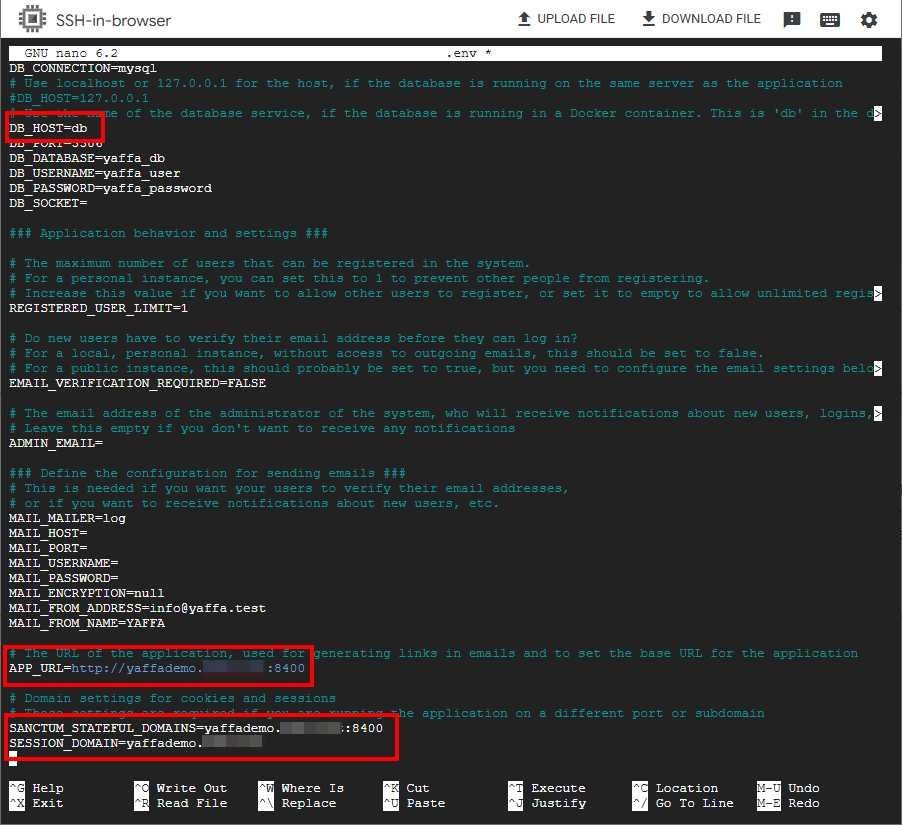
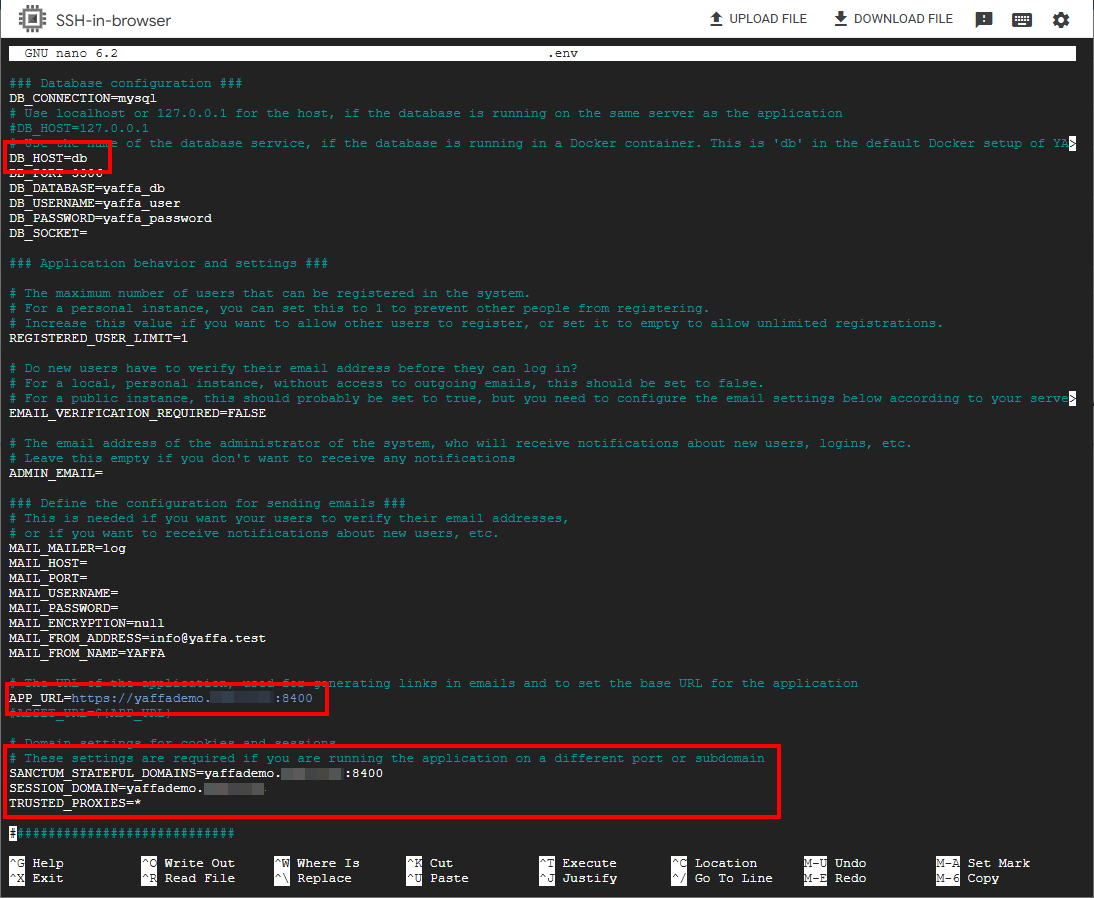
fix: Docker-related instructions

diff --git a/docs/getting-started/installation/install-yaffa-using-docker-on-a-vps.md b/docs/getting-started/installation/install-yaffa-using-docker-on-a-vps.md
@@ -7,7 +7,7 @@ description: Learn how to install and configure YAFFA on a VPS using Docker, and
 
 # Install and Configure YAFFA using Docker on a VPS
 
-This article will help you install a working instance of YAFFA on your VPS. It will guide you through the installation of YAFFA web application itself. In this tutorial we'll also apply some advanced configurations to use a custom subdomain and port for the application.
+This article will help you install a working instance of YAFFA on your VPS. It will guide you through the installation of YAFFA web application itself. In this tutorial we'll also apply some advanced configurations to use a custom subdomain and port for the application, and to set up HTTPS to access YAFFA.
 
 This guide uses the following providers for the VPS and other services. (No affiliation with any of the services mentioned.)
 * Google Cloud Platform (GCP) for the VPS, with billing enabled. This is necessary even if you select the free tier of the VM. You can use any other VPS provider, but the steps may vary.
@@ -102,6 +102,12 @@ curl -o docker-compose.yml https://raw.githubusercontent.com/kantorge/yaffa/refs
 curl -o .env https://raw.githubusercontent.com/kantorge/yaffa/refs/heads/main/.env.example
 ```
 
+To set up HTTPS access, you also need a `Caddyfile` to configure Caddy as a reverse proxy. You can download it using the following command.
+
+```bash
+curl -o Caddyfile https://raw.githubusercontent.com/kantorge/yaffa/refs/heads/main/docker/Caddyfile
+```
+
 ### 3.3. Configure YAFFA
 
 As any Laravel application, YAFFA needs to be configured to work with your environment. This includes setting up the database connection, application key, and other settings.
@@ -120,8 +126,11 @@ In this tutorial, we also configure the application to use a custom subdomain an
 
 ```env
 APP_URL=http://yaffa.example.com:8400
+
 SANCTUM_STATEFUL_DOMAINS=yaffa.example.com:8400
 SESSION_DOMAIN=yaffa.example.com
+
+TRUSTED_PROXIES=*
 ```
 
 Once you are done with all changes, save the file and exit the editor.
@@ -143,13 +152,35 @@ import DockerComposePortUpdated from '/img/docker-vps-installation/10-docker-com
 nano docker-compose.yml
 ```
 
-Find the `ports` section of the `app` service and update it to expose the port you have configured in the `.env` file.
+Find the `ports` section of the `app` service and update it to use port 80, without exposing it externally. Caddy will handle the HTTPS traffic and forward it to the application.
 
 ```yaml
 services:
   app:
     ports:
-      - "8400:80"
+      - "80"
+```
+
+Similarly, update the `ports` section of the `caddy` service to expose the custom port 8400 to the host.
+
+```yaml
+  caddy:
+    ports:
+      - "8400:8400"
+```
+
+Finally, you need to adjust the `Caddyfile` to use your domain and subdomain. Open the file in your text editor.
+
+```bash
+nano Caddyfile
+```
+
+Update the sample domain and subdomain to your own, and save the file.
+
+```plaintext
+yaffa.example.com:8400 {
+  reverse_proxy app:80
+}
 ```
 
 ## 4. Start YAFFA

diff --git a/docs/getting-started/installation/install-yaffa-using-docker-for-windows.md b/docs/getting-started/installation/install-yaffa-using-docker-for-windows.md
@@ -8,7 +8,7 @@ This guide will help you install a basic working instance of YAFFA on your Windo
 
 Docker is a platform for developing, shipping, and running applications in containers. At this point, we assume that you have already installed Docker and Docker Compose on your computer. This guide uses Windows and Windows Subsystem for Linux (WSL) 2 to run Docker containers.
 
-You can read about the environment requirements in the [Technology stack](./technology.md) guide.
+This Docker-based approach will take of installing the necessary server environment within containers. If needed, you can read about the environment requirements in the [Technology stack](./technology.md) guide.
 
 ## 1. Start your Docker environment
 
